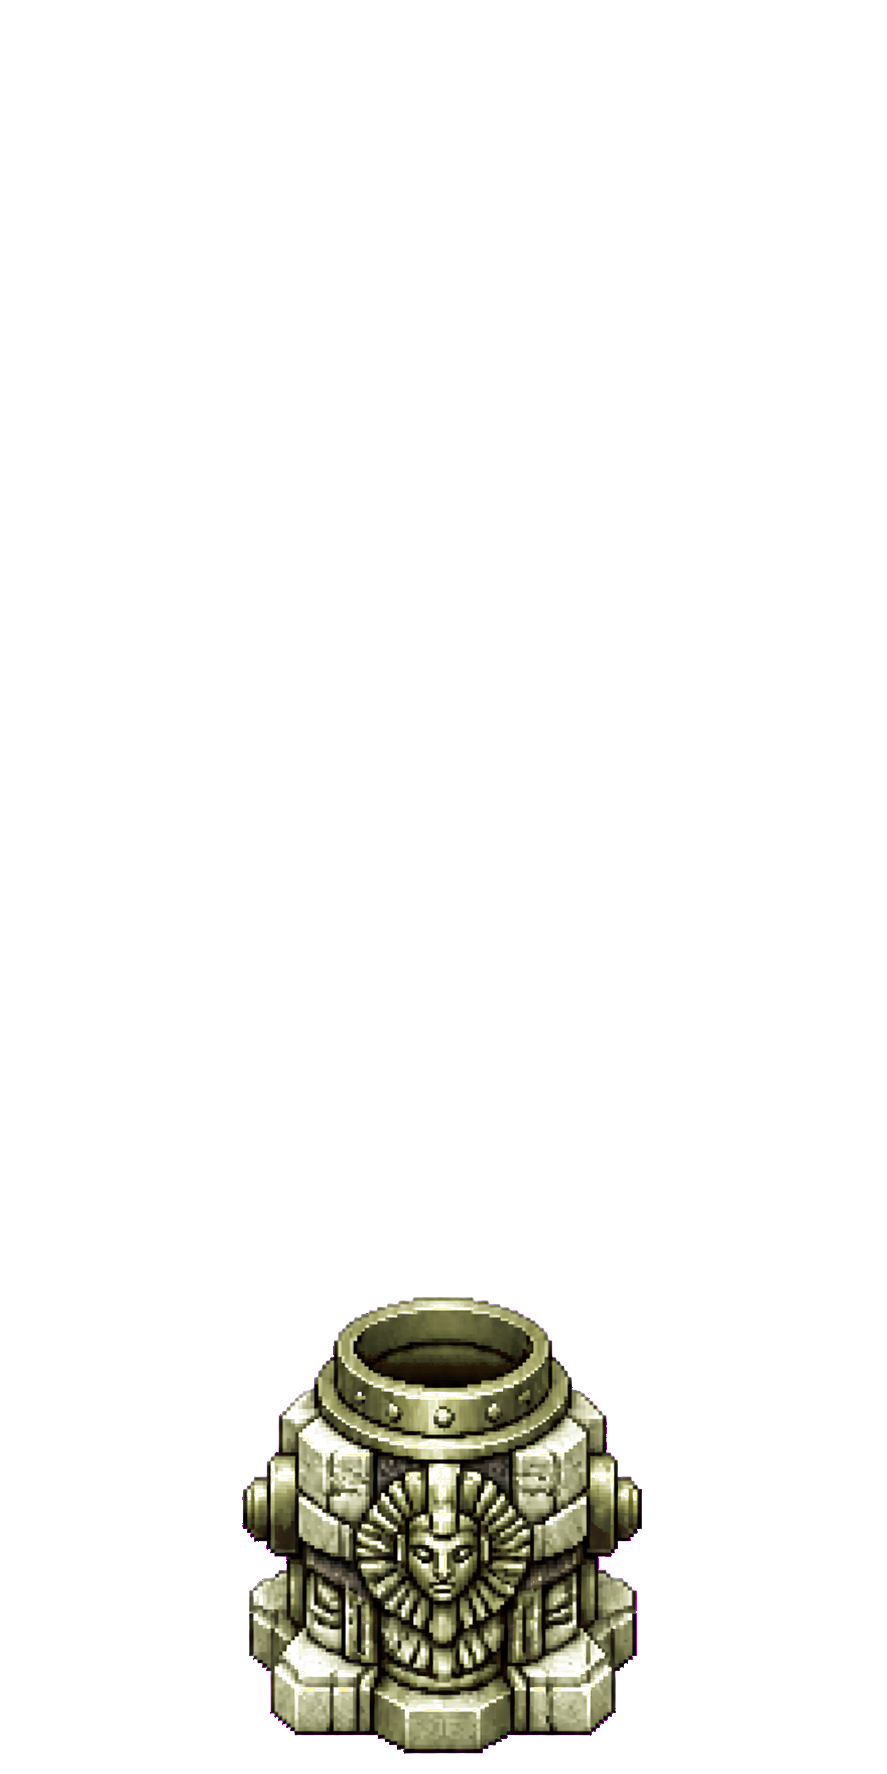
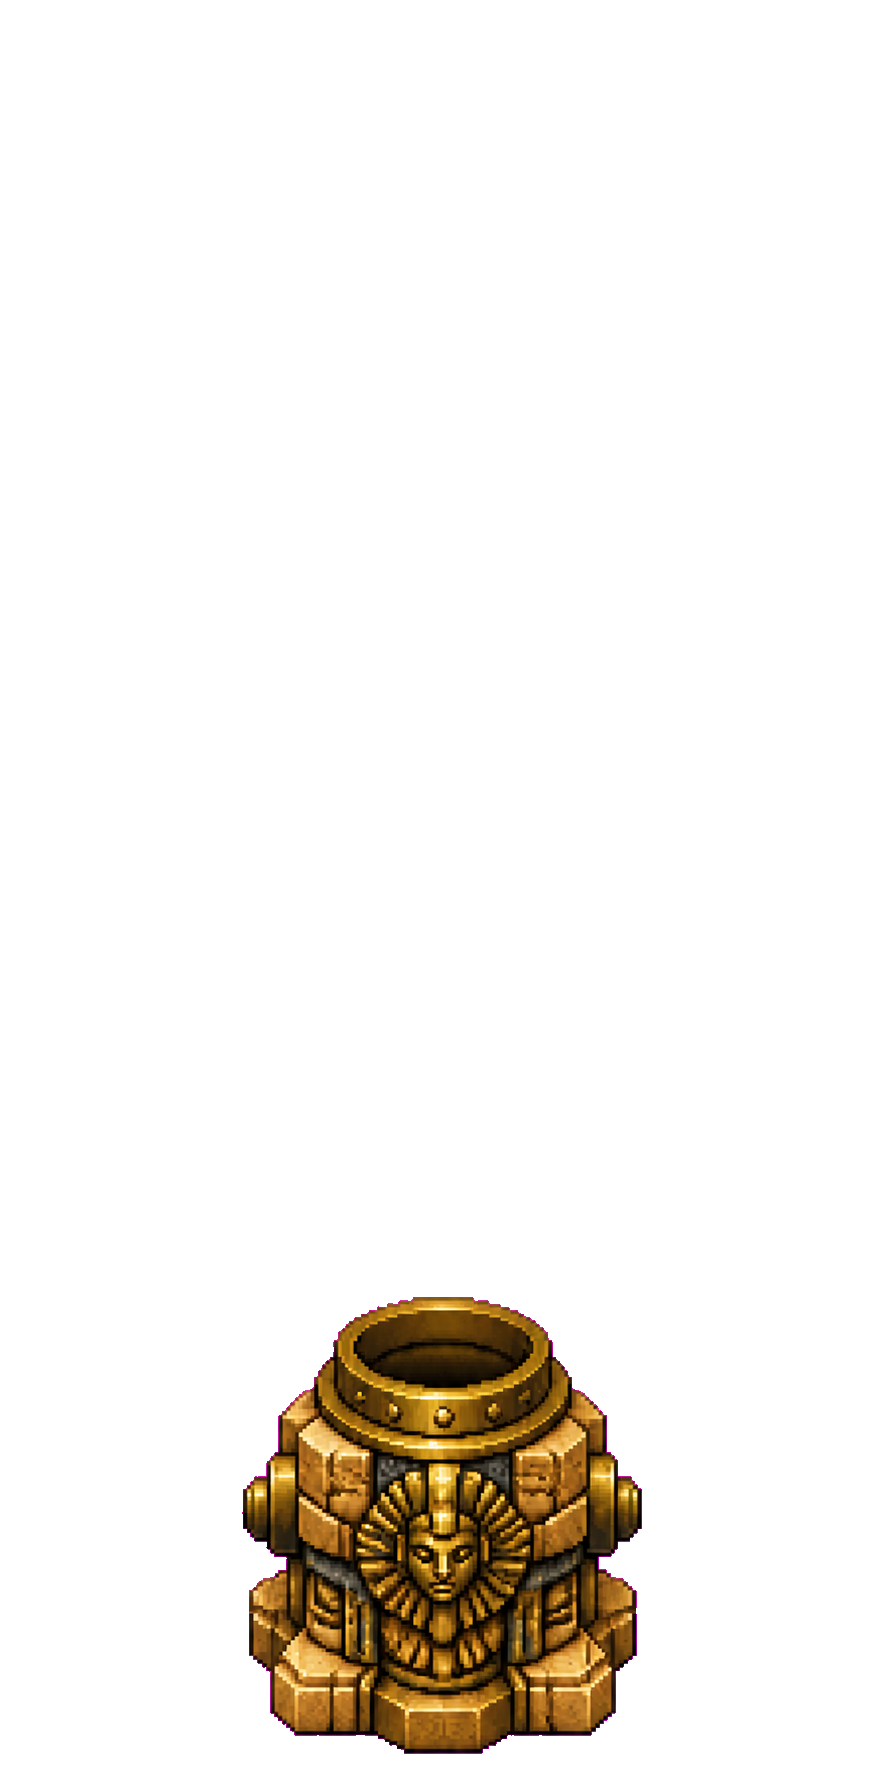
Fix desert hazard alpha bounds and sand-jet collision

Changed region(s): [[0.274, 0.7131, 0.7306, 0.9921]]

diff --git a/tests/model.test.ts b/tests/model.test.ts
@@ -10,6 +10,7 @@ import {
   PLAYER_MIN_X,
   PLAYER_RECOVERY_SPEED,
   PLAYER_X,
+  SANDJET_NOZZLE_DEPTH,
 } from "../src/game/constants";
 import { CHUNKS, TRANSITION_CHUNKS, envelopesCompatible, tunnelOffsetAt, validateChunkLibrary } from "../src/game/chunks";
 import { GameModel } from "../src/game/model";
@@ -247,6 +248,40 @@ describe("birdddddd model", () => {
     expect(erupting.visibleRects()[0]?.active).toBe(true);
     erupting.step();
     expect(erupting.mode).toBe("dead");
+  });
+
+  it("keeps the sand-jet nozzle safe while the separated plume remains lethal", () => {
+    const floorJet: ChunkDefinition = {
+      ...safeChunk(),
+      id: "test-floor-sandjet",
+      hazards: [{ x: PLAYER_X - 5, y: 80, w: 10, h: 42, kind: "sandJet", attachment: "floor" }],
+    };
+    const nozzleContact = new GameModel(901);
+    nozzleContact.chunks = [activate(floorJet)];
+    nozzleContact.mode = "playing";
+    nozzleContact.playerY = 122 - SANDJET_NOZZLE_DEPTH / 2;
+    nozzleContact.step();
+    expect(nozzleContact.mode).toBe("playing");
+
+    const plumeContact = new GameModel(902);
+    plumeContact.chunks = [activate(floorJet)];
+    plumeContact.mode = "playing";
+    plumeContact.playerY = 92;
+    plumeContact.step();
+    expect(plumeContact.mode).toBe("dead");
+
+    const ceilingJet: ChunkDefinition = {
+      ...safeChunk(),
+      id: "test-ceiling-sandjet",
+      hazards: [{ x: PLAYER_X - 5, y: 58, w: 10, h: 42, kind: "sandJet", attachment: "ceiling", flipY: true }],
+    };
+    const ceilingNozzleContact = new GameModel(903);
+    ceilingNozzleContact.chunks = [activate(ceilingJet)];
+    ceilingNozzleContact.mode = "playing";
+    ceilingNozzleContact.gravity = -1;
+    ceilingNozzleContact.playerY = 58 + SANDJET_NOZZLE_DEPTH / 2;
+    ceilingNozzleContact.step();
+    expect(ceilingNozzleContact.mode).toBe("playing");
   });
 
   it("moves minecarts horizontally without changing their authored track height", () => {

diff --git a/src/game/scene.ts b/src/game/scene.ts
@@ -12,6 +12,7 @@ import {
   PLAYER_WIDTH,
   PLAYER_X,
   RENDER_DENSITY,
+  SANDJET_NOZZLE_DEPTH,
   VIEW_HEIGHT,
   VIEW_WIDTH,
 } from "./constants";
@@ -899,6 +900,7 @@ export class AviaryScene extends Phaser.Scene {
         const active = rect.active !== false;
         const centerX = Math.round(rect.x + rect.w / 2);
         const baseY = Math.round(rect.flipY ? rect.y : rect.y + rect.h);
+        const openingY = baseY + (rect.flipY ? SANDJET_NOZZLE_DEPTH : -SANDJET_NOZZLE_DEPTH);
         const warningSprite = active
           ? takeSprite(interactiveDangerTextureKey(rect.chapter, "sandjet"))
           : undefined;
@@ -914,12 +916,13 @@ export class AviaryScene extends Phaser.Scene {
           .setOrigin(0.5, 1)
           .setDisplaySize(rect.w + 8, 16)
           .setPosition(centerX, baseY)
+          .setAlpha(1)
           .setFlipY(rect.flipY === true);
         if (warningSprite && plumeSprite) {
           plumeSprite
             .setOrigin(0.5, 1)
-            .setDisplaySize(rect.w + 8, rect.h + 4)
-            .setPosition(centerX, baseY)
+            .setDisplaySize(rect.w + 8, rect.h - SANDJET_NOZZLE_DEPTH + 4)
+            .setPosition(centerX, openingY)
             .setFlipY(rect.flipY === true);
           this.syncDangerSilhouette(warningSprite, plumeSprite, 4);
         }

diff --git a/src/game/model.ts b/src/game/model.ts
@@ -13,6 +13,7 @@ import {
   PLAYER_WIDTH,
   PLAYER_X,
   RESTART_DELAY_SECONDS,
+  SANDJET_NOZZLE_DEPTH,
   TERRAIN_SPIKE_COLLISION_RATIO,
   VIEW_WIDTH,
   chapterForGates,
@@ -471,9 +472,18 @@ export class GameModel {
         const motion = this.motionOffset(hazard);
         if (!this.hazardIsActive(hazard)) continue;
         const terrainSpike = hazard.kind === "thorns" || hazard.kind === "barbs";
-        const collisionHeight = terrainSpike ? hazard.h * TERRAIN_SPIKE_COLLISION_RATIO : hazard.h;
+        const sandJet = hazard.kind === "sandJet";
+        const collisionHeight = terrainSpike
+          ? hazard.h * TERRAIN_SPIKE_COLLISION_RATIO
+          : sandJet
+            ? Math.max(1, hazard.h - SANDJET_NOZZLE_DEPTH)
+            : hazard.h;
         const ceilingSpike = hazard.attachment === "ceiling" || hazard.flipY === true;
-        const collisionInsetY = terrainSpike && !ceilingSpike ? hazard.h - collisionHeight : 0;
+        const collisionInsetY = terrainSpike && !ceilingSpike
+          ? hazard.h - collisionHeight
+          : sandJet && ceilingSpike
+            ? SANDJET_NOZZLE_DEPTH
+            : 0;
         const rect = {
           x: origin + hazard.x + motion.x,
           y: hazard.y + tunnelOffset + motion.y + collisionInsetY,

diff --git a/src/game/constants.ts b/src/game/constants.ts
@@ -10,6 +10,7 @@ export const PLAYER_WIDTH = 14;
 export const PLAYER_HEIGHT = 12;
 export const HITBOX_INSET = 2;
 export const TERRAIN_SPIKE_COLLISION_RATIO = 0.75;
+export const SANDJET_NOZZLE_DEPTH = 14;
 export const GRAVITY_ACCELERATION = 420;
 export const MAX_VERTICAL_SPEED = 155;
 export const FLIP_DEBOUNCE_SECONDS = 0.08;

diff --git a/scripts/prepare_interactive_asset.py b/scripts/prepare_interactive_asset.py
@@ -15,10 +15,15 @@ def main() -> None:
     parser.add_argument("output", type=Path)
     parser.add_argument("--max-width", type=int, required=True)
     parser.add_argument("--max-height", type=int, required=True)
+    parser.add_argument("--alpha-threshold", type=int, default=0)
     args = parser.parse_args()
+    if not 0 <= args.alpha_threshold < 255:
+        raise SystemExit("--alpha-threshold must be between 0 and 254")
 
     image = Image.open(args.input).convert("RGBA")
-    bounds = image.getchannel("A").getbbox()
+    alpha = image.getchannel("A")
+    crop_mask = alpha.point(lambda value: 255 if value > args.alpha_threshold else 0)
+    bounds = crop_mask.getbbox()
     if not bounds:
         raise SystemExit(f"No visible pixels in {args.input}")
     image = image.crop(bounds)

diff --git a/progress.md b/progress.md
@@ -114,3 +114,5 @@ Original prompt: Implement the complete “Impossible Aviary — Gameplay and Ar
 2026-08-14: Corrected the incomplete hazard audit after Sunken Dunes' spinner exposed another procedural fallback. Added a purpose-built sandstone sun-wheel with eight serrated flint/brass blades, mapped chapter 2's spinner hazard to that raster asset, and allowed the existing Canvas alpha-mask system to generate its contour-following red silhouette instead of the legacy circular stroke. Most importantly, expanded the manifest test from chapters 3–8 to every hazard actually present in all nine chapters, so any future unmapped chunk hazard fails the suite. Verified both new spinner source/runtime files exist. ImageGen built-in mode produced the source on a flat chroma background; local processing removed the key and created the compact runtime PNG. TypeScript, all 39 tests, the production build, and diff validation pass; browser capture was intentionally skipped because Eric will visually verify local changes.
 2026-08-14: Removed every legacy Phaser-geometry hazard renderer from the scene: there are no longer procedural fallback branches for thorns, barbs, vines, sand jets, flames, crushers, crystals, spores, carts, embers, shutters, beaks, or spinners. All lethal objects must render through the exhaustive authored-art manifest and raster pipeline. If a mapped hazard fails to acquire its authored sprite, rendering now throws an explicit error instead of substituting primitive geometry or leaving an invisible lethal collider. Procedural drawing remains intentionally for the bird, feathers/particles, UI, and the continuous tunnel mask/edge geometry that follows collision slopes; safe-solid fallback drawing is unchanged because it is not hazardous. TypeScript, all 39 tests, the production build, and diff validation pass; the scene bundle shrank by roughly 6 KB.
 2026-08-14: Added a transparent SVG favicon that reproduces the in-game golden fledgling's chunky body, expressive wing, oversized eye, beak, tail, and feet in a simplified static flutter pose. The icon uses integer-aligned pixel shapes and the exact character palette with no frame or background, and `index.html` now advertises it as the site favicon. XML validation, TypeScript, all 39 tests, the production build, and diff validation pass.
+2026-08-14: Corrected Sunken Dunes sand-jet composition and collision. The reusable nozzle is explicitly full opacity and remains anchored to the terrain; the separate plume now begins at the nozzle opening 14 logical pixels inward from the terrain instead of sharing the ground baseline. Floor and ceiling variants mirror cleanly with a two-pixel visual overlap and no gap. The active collision rectangle now excludes the nozzle depth and matches only the plume region, consistent with the rule that only the plume receives a red lethal silhouette. Added floor-plume, floor-nozzle, and ceiling-nozzle collision coverage. TypeScript, all 40 tests, the production build, and diff validation pass; browser capture was intentionally skipped because Eric will visually verify local changes.
+2026-08-14: Fixed two Sunken Dunes alpha-bound defects identified from the actual PNG channels. The nozzle's earlier soft chroma matte left only 383 of 8,064 runtime pixels fully opaque and made its center alpha 76; regenerated it with a hard key so the center is now alpha 255 and transparency is limited to resized silhouette edges. The pillar source contained a low-alpha stray pixel at x=0, causing the runtime crop to retain blank space and place the visible gate only in y=79..255 of its frame. Added configurable alpha-noise rejection to the interactive-asset preparation script and rebuilt the pillar at 48×177 with visible pixels spanning the complete frame, so its displayed height now matches the collision rectangle. TypeScript, all 40 tests, the production build, and diff validation pass; browser capture was intentionally skipped because Eric will visually verify local changes.
